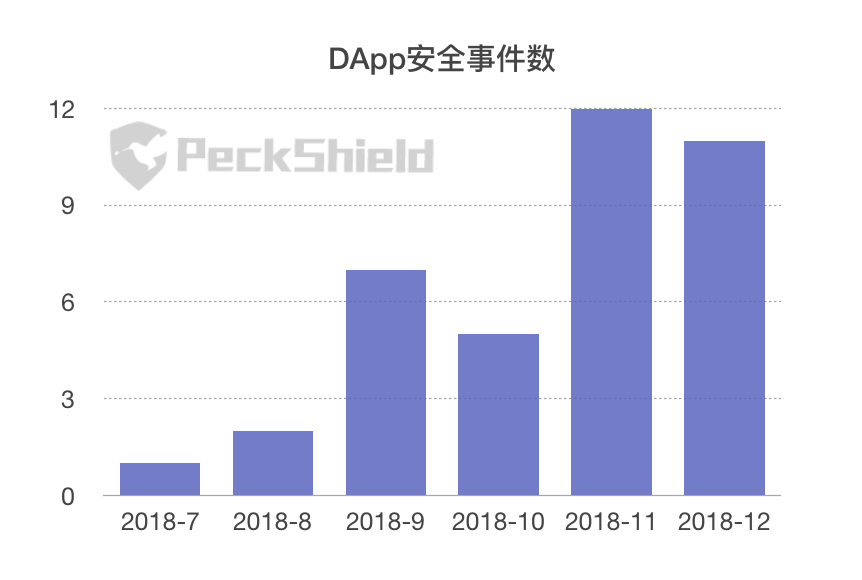
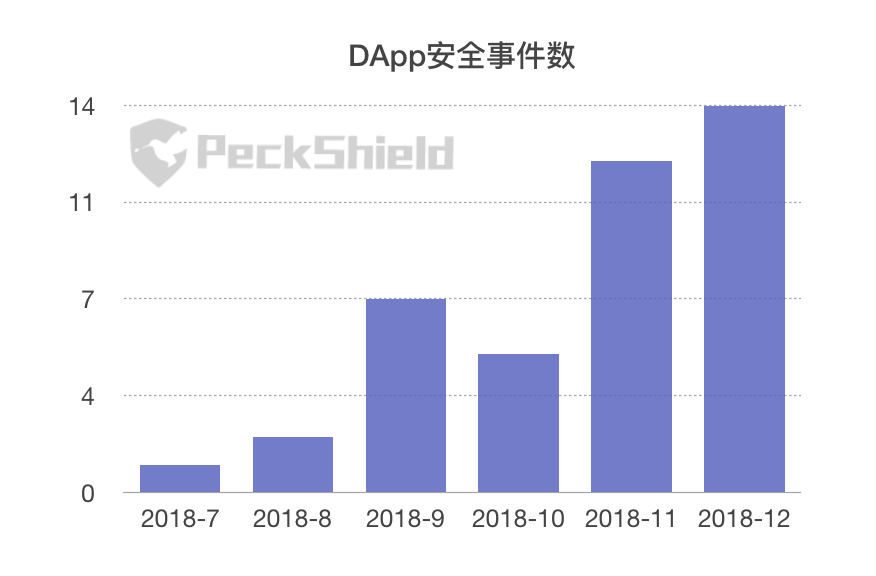
upate 2018-12-23

diff --git a/known_dapp_attacks/README.md b/known_dapp_attacks/README.md
@@ -3,11 +3,11 @@
 本文档根据发生的EOS DApp安全事件不定期更新，旨在记录EOS主网上线以来发生的各类DApp安全事件，供大家参考，同时欢迎大家对该文档提出建议及指正，以完善文档，一起促进EOS的生态健康发展。
 
 ## 概要
-截至2018年12月20日，共发生40起DApp安全事件，共损失超过71万个EOS
+截至2018年12月23日，共发生43起DApp安全事件，共损失超过71.5万个EOS
 ![EOS DApp安全事件列表](dapp_attacks_summary.png)
 
 ## EOS DApp安全事件列表
-截至2018年12月20日的安全事件列表：
+截至2018年12月23日的安全事件列表：
 ![EOS DApp安全事件列表](eos_dapp_attacks.png)
 
 ## EOS DApp安全事件历史版本
